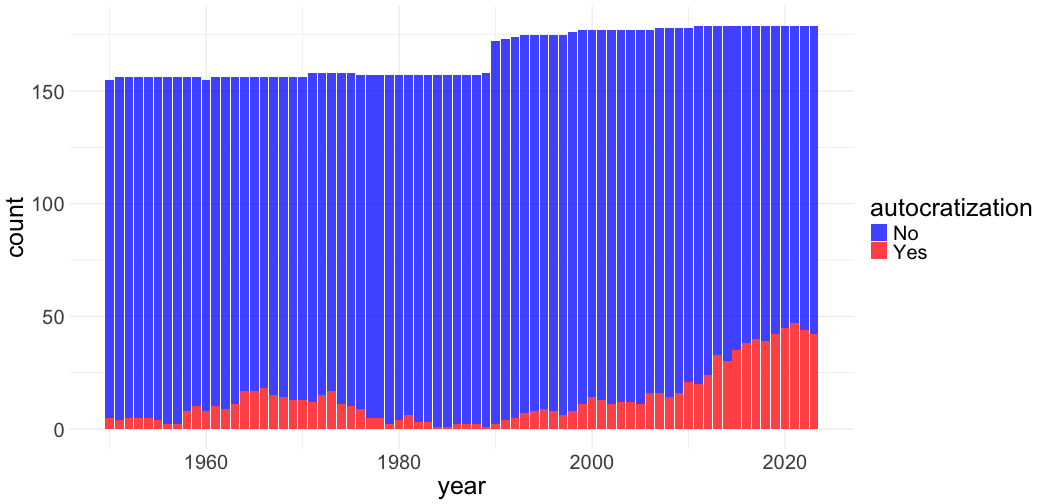
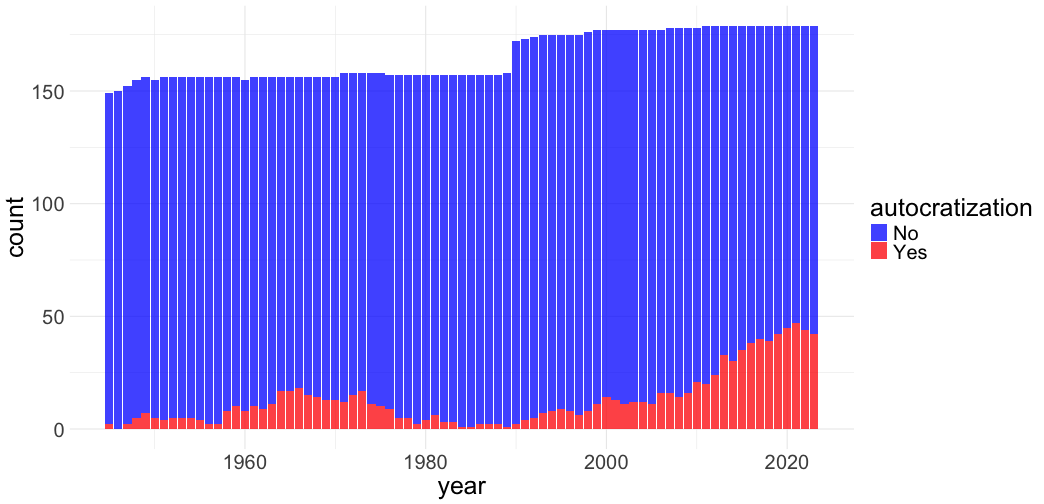
up

diff --git a/class/GLOA396-backsliding.html b/class/GLOA396-backsliding.html
@@ -45,6 +45,31 @@ background-size: 100%
 
 ---
 
+class: middle
+background-image: url(https://github.com/textvulture/textvulture.github.io/blob/master/images/halfBackground4.jpg?raw=true)
+background-size: 110%
+
+# **What we talk about:**
+
+# 1. The concept/empirics of democratic backsliding
+
+# 2. How a backsliding unfolds
+
+# 3. Institutional and social roots of backsliding
+
+---
+
+class: inverse, bottom, center
+background-image: url(https://media1.giphy.com/media/v1.Y2lkPTc5MGI3NjExNjF2c2pzMDlkMWhsZjM0OGV4czFrZXRtdGJoMjhocDV2a2hmY3prcSZlcD12MV9pbnRlcm5hbF9naWZfYnlfaWQmY3Q9Zw/4pMX5rJ4PYAEM/giphy.gif)
+background-color: black
+background-size: 100%
+
+--
+
+# .LARGE[**What is backsliding?**]
+
+---
+
 .full-width-green[
 # What is .pink[Democratic Backsliding?]
 ]
@@ -69,11 +94,17 @@ background-size: 100%
 
 ---
 
+# Global Backsliding .tiny[(Autocratization)] Trend (V-dem data): .green[**zoom-in**]
+
+&lt;img src="GLOA396-backsliding_files/figure-html/unnamed-chunk-2-1.png" style="display: block; margin: auto;" /&gt;
+
+---
+
 background-image: url(https://antigonejournal.com/wp-content/uploads/2023/09/CentJT.png)
 background-position: right
 background-size: contain
 
-# Two-step process to backsliding
+# .orange[Two-step] process to backsliding
 
 --
 
@@ -107,6 +138,74 @@ background-size: contain
 ## <svg aria-hidden="true" role="img" viewBox="0 0 512 512" style="height:1em;width:1em;vertical-align:-0.125em;margin-left:auto;margin-right:auto;font-size:inherit;fill:red;overflow:visible;position:relative;"><path d="M481 31C445.1-4.8 386.9-4.8 351 31l-15 15L322.9 33C294.8 4.9 249.2 4.9 221.1 33L135 119c-9.4 9.4-9.4 24.6 0 33.9s24.6 9.4 33.9 0L255 66.9c9.4-9.4 24.6-9.4 33.9 0L302.1 80 186.3 195.7 316.3 325.7 481 161c35.9-35.9 35.9-94.1 0-129.9zM293.7 348.3L163.7 218.3 99.5 282.5c-48 48-80.8 109.2-94.1 175.8l-5 25c-1.6 7.9 .9 16 6.6 21.7s13.8 8.1 21.7 6.6l25-5c66.6-13.3 127.8-46.1 175.8-94.1l64.2-64.2z"/></svg>  End result: Removal of political contestation
   
 ---
+
+background-image: url(https://upload.wikimedia.org/wikipedia/commons/thumb/1/1f/Quintus_Fabius_Maximus_Before_the_Senate_of_Carthage.jpg/250px-Quintus_Fabius_Maximus_Before_the_Senate_of_Carthage.jpg)
+background-position: right
+background-size: contain
+
+
+# Institutional Roots of Backsliding &lt;br&gt; .tiny[(the fundamental source of grievance)]
+
+### - Democratization becomes its own .pink[victim] (Gandhi 2019).
+
+  - .Large[.green[Vertical] democratic accountability problem.]
+
+--
+
+### - Institutions to .purple[complement] democracy:  weaponization <svg aria-hidden="true" role="img" viewBox="0 0 384 512" style="height:1em;width:0.75em;vertical-align:-0.125em;margin-left:auto;margin-right:auto;font-size:inherit;fill:red;overflow:visible;position:relative;"><path d="M169.4 470.6c12.5 12.5 32.8 12.5 45.3 0l160-160c12.5-12.5 12.5-32.8 0-45.3s-32.8-12.5-45.3 0L224 370.8 224 64c0-17.7-14.3-32-32-32s-32 14.3-32 32l0 306.7L54.6 265.4c-12.5-12.5-32.8-12.5-45.3 0s-12.5 32.8 0 45.3l160 160z"/></svg>
+--
+
+  - .Large[central bank independence]
+  - .Large[judicial independence]
+
+--
+
+### - .violet[Founding] constitution (often) protects authoritarian legacy
+
+--
+
+### - Vulnerability: independence is protected .red[only] by norms.
+
+---
+
+
+class: inverse
+background-color: black
+
+
+.full-width-blue[
+# Society: .Green[Media] and .pink[Communication] during Backsliding
+]
+
+--
+&lt;br&gt;
+### - Backsliding &amp; information:  "rumors, propaganda, &amp; conspiracies" (Wolf 2024) are .pink[accelerators]
+
+--
+
+### - Political information is .Green[costly] to process/verify for ordinary people (time &amp; attention)
+
+--
+
+  - .Large[<svg aria-hidden="true" role="img" viewBox="0 0 640 512" style="height:1em;width:1.25em;vertical-align:-0.125em;margin-left:auto;margin-right:auto;font-size:inherit;fill:yellow;overflow:visible;position:relative;"><path d="M64 64l224 0 0 9.8c0 39-23.7 74-59.9 88.4C167.6 186.5 128 245 128 310.2l0 73.8s0 0 0 0H64V64zm288 0l224 0V384H508.3l-3.7-4.5-75.2-90.2c-9.1-10.9-22.6-17.3-36.9-17.3l-71.1 0-41-63.1c-.3-.5-.6-1-1-1.4c44.7-29 72.5-79 72.5-133.6l0-9.8zm73 320H379.2l42.7 64H592c26.5 0 48-21.5 48-48V48c0-26.5-21.5-48-48-48H48C21.5 0 0 21.5 0 48V400c0 26.5 21.5 48 48 48H308.2l33.2 49.8c9.8 14.7 29.7 18.7 44.4 8.9s18.7-29.7 8.9-44.4L310.5 336l74.6 0 40 48zm-159.5 0H192s0 0 0 0l0-73.8c0-10.2 1.6-20.1 4.7-29.5L265.5 384zM192 128a48 48 0 1 0 -96 0 48 48 0 1 0 96 0z"/></svg> a great opportunity for populist propaganda: info (cost) asymmetry ]
+  
+--
+
+### - Propaganda can be professed in two different ways:
+
+  - .Large[.pink[de-]politicization]
+  - .Large[.Blue[over-]politicization]
+
+ 
+---
+
+class: inverse, center, bottom
+background-image: url(https://media1.giphy.com/media/v1.Y2lkPTc5MGI3NjExZDhqbnh6M2I4eTV4c2R5OXY5YnNyd3ZyamZnODBmZjdlN2Iyemw0byZlcD12MV9pbnRlcm5hbF9naWZfYnlfaWQmY3Q9Zw/023GUNo0864Vzgu4n6/giphy.gif)
+background-size: 100%
+
+# .huge[**Democratic Resilience?**]
+
+
     </textarea>
 <style data-target="print-only">@media screen {.remark-slide-container{display:block;}.remark-slide-scaler{box-shadow:none;}}</style>
 <script src="https://remarkjs.com/downloads/remark-latest.min.js"></script>
